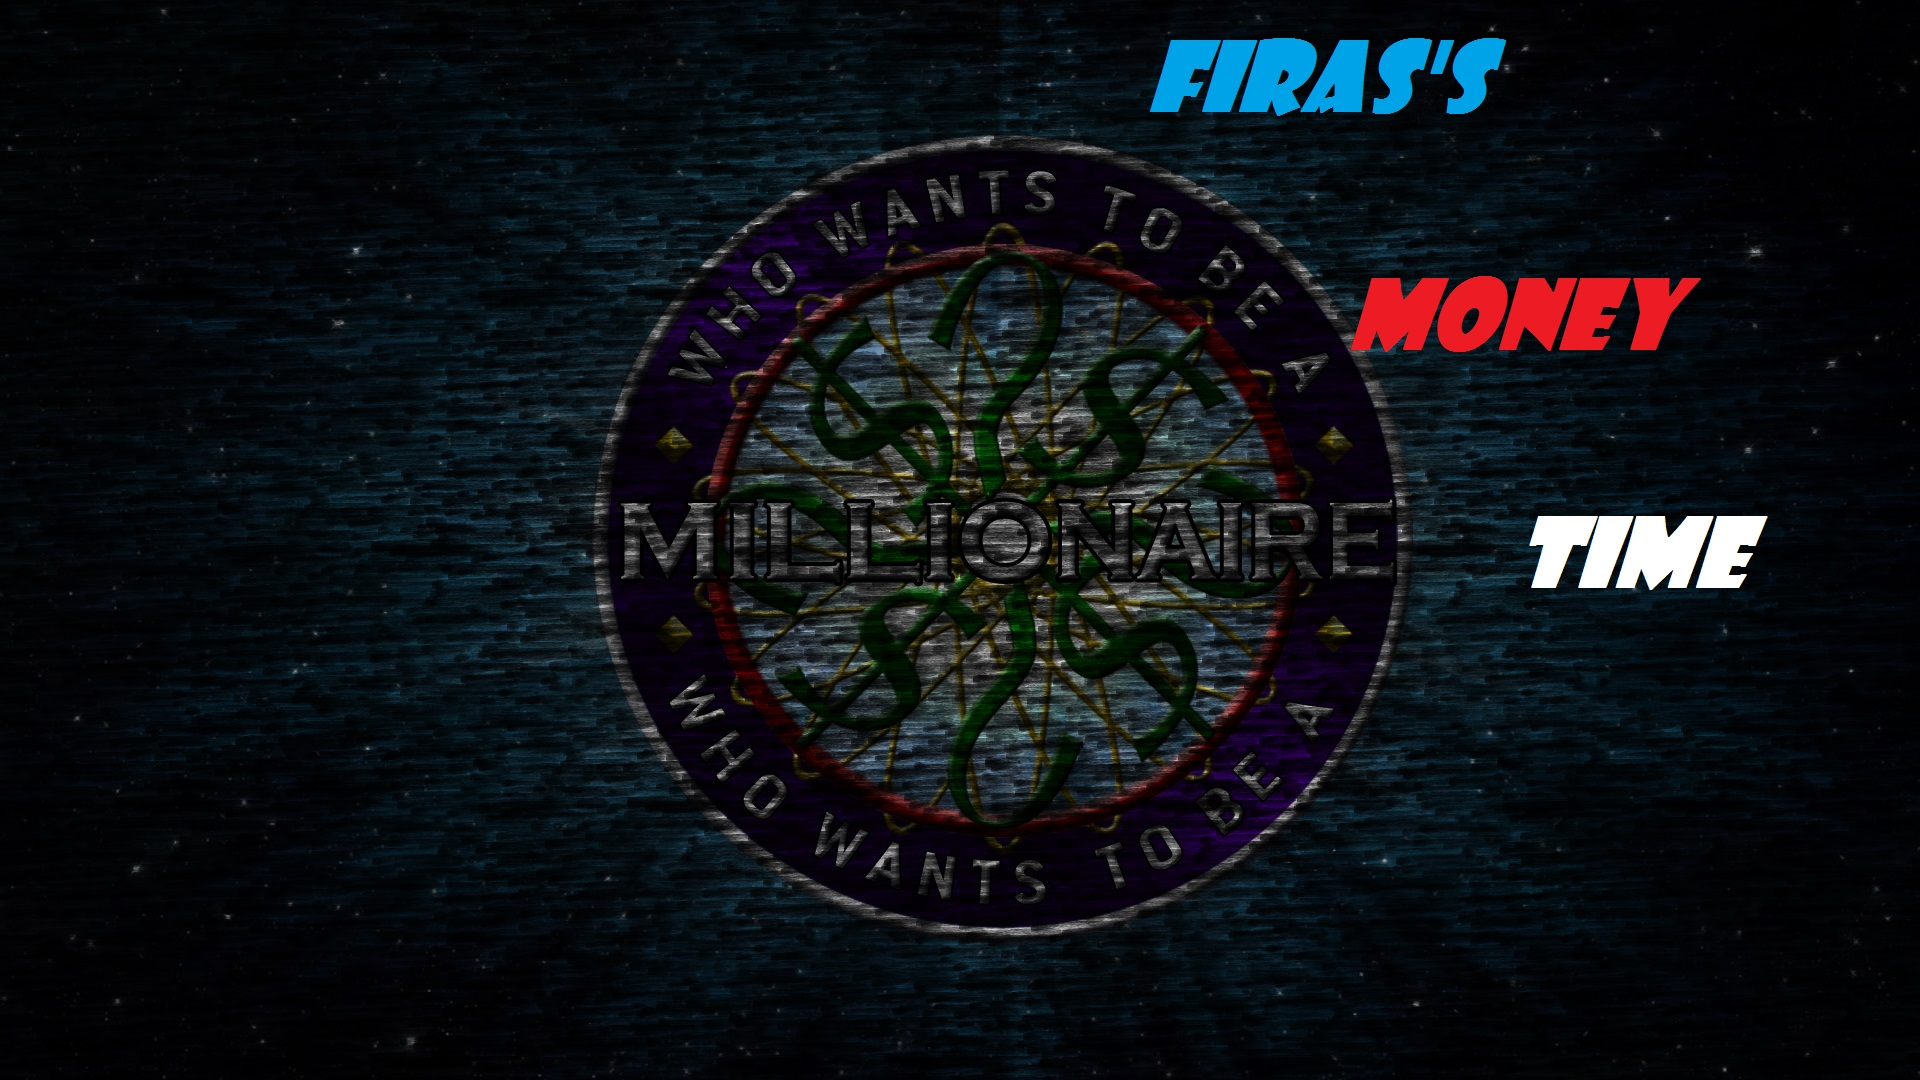
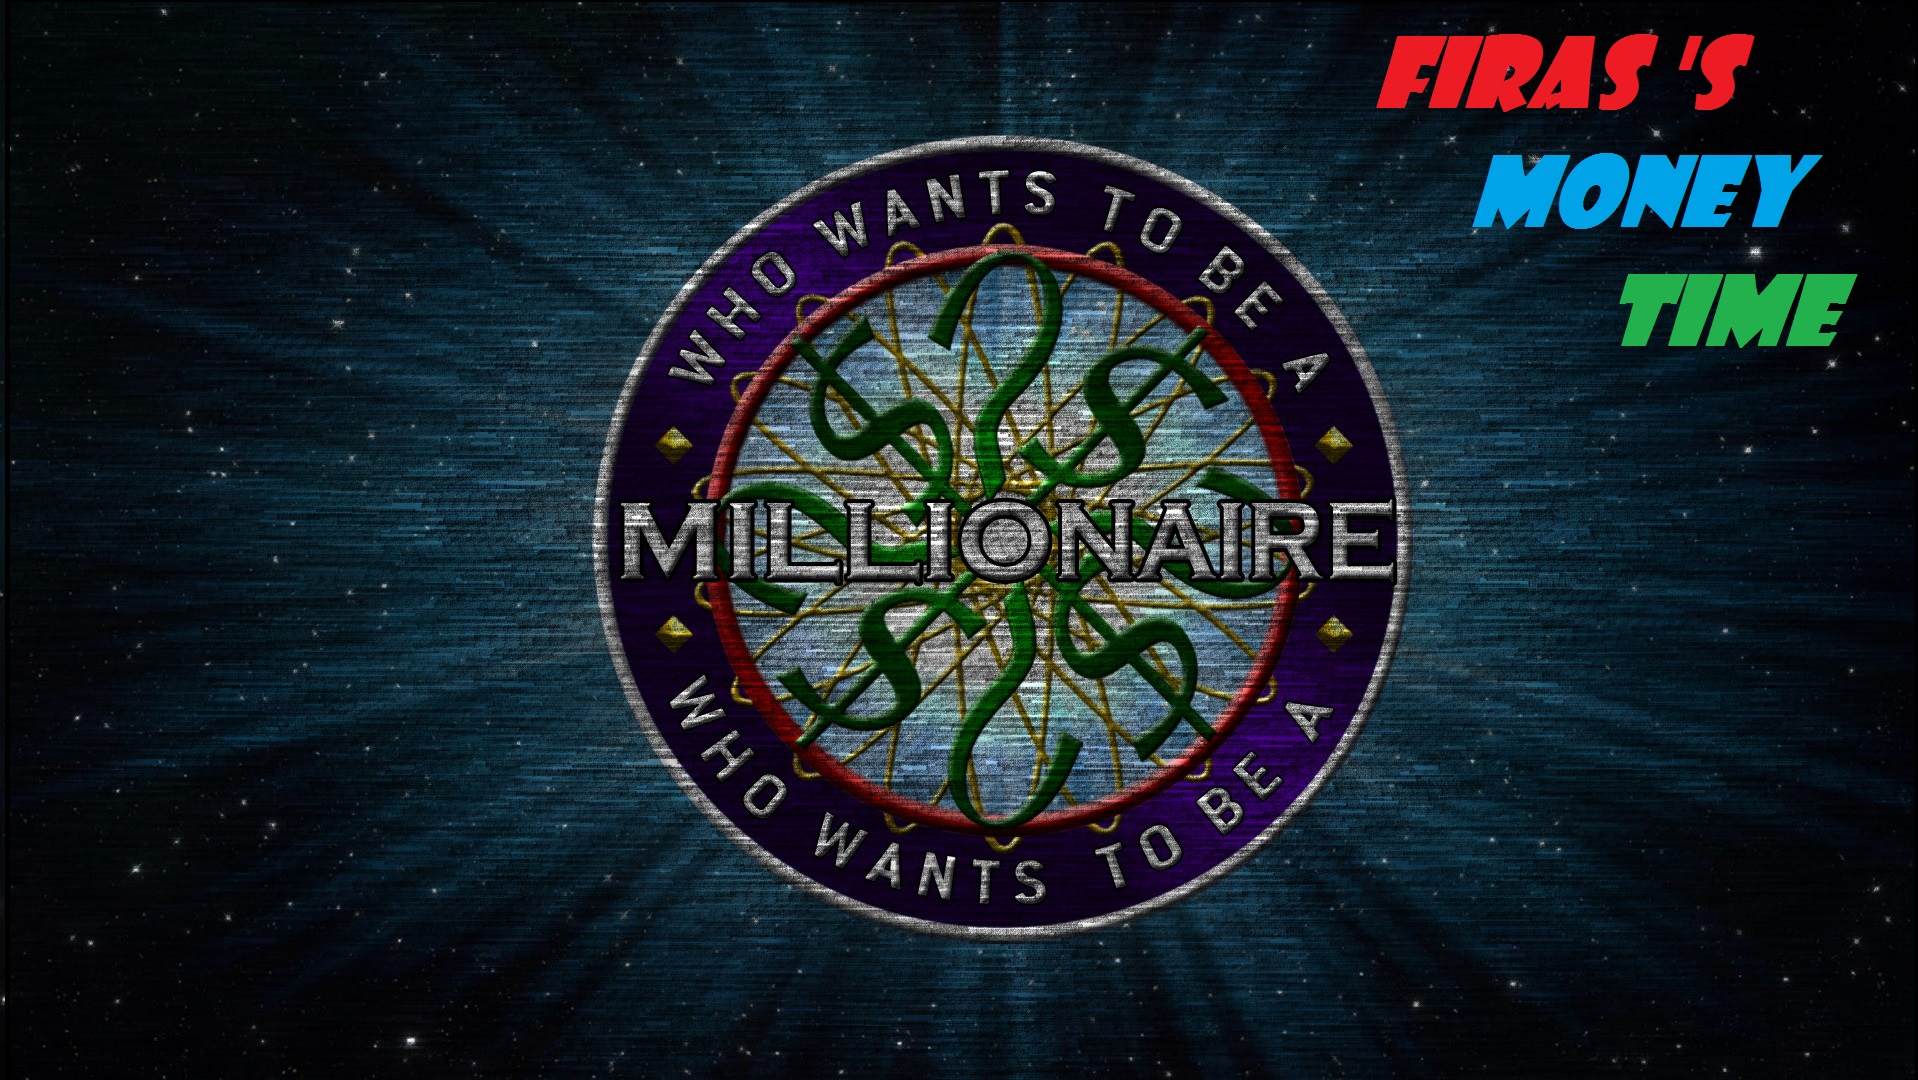
fixed an error with the onlineLink class fixed an error with the onlineLink class which didnt allow the data to be extracted correctly from the specified URL, also fixed a problem with the background color scheme done.

diff --git a/firasSMoneyTime/src/moneyTime/MTOnlineWindow.java b/firasSMoneyTime/src/moneyTime/MTOnlineWindow.java
@@ -160,25 +160,25 @@ public class MTOnlineWindow implements ActionListener
 			public void actionPerformed(ActionEvent arg0) 
 			{	
 				audio.cameraSound2();
-				if (answerButtonOne.getText().equals(MTMethods.correctAnswer))
+				if (answerButtonOne.getText().equals(MTOMethods.correctAnswer))
 				{
 					answerButtonTwo.setEnabled(false);
 					answerButtonFour.setEnabled(false);
 				}
 
-				else if (answerButtonTwo.getText().equals(MTMethods.correctAnswer))
+				else if (answerButtonTwo.getText().equals(MTOMethods.correctAnswer))
 				{
 					answerButtonThree.setEnabled(false);
 					answerButtonOne.setEnabled(false);
 				}
 
-				else if (answerButtonThree.getText().equals(MTMethods.correctAnswer))
+				else if (answerButtonThree.getText().equals(MTOMethods.correctAnswer))
 				{
 					answerButtonTwo.setEnabled(false);
 					answerButtonFour.setEnabled(false);
 				}
 
-				else if(answerButtonFour.getText().equals(MTMethods.correctAnswer))
+				else if(answerButtonFour.getText().equals(MTOMethods.correctAnswer))
 				{
 					answerButtonOne.setEnabled(false);
 					answerButtonTwo.setEnabled(false);

diff --git a/firasSMoneyTime/src/moneyTime/MTOnlineLink.java b/firasSMoneyTime/src/moneyTime/MTOnlineLink.java
@@ -17,9 +17,9 @@ public class MTOnlineLink {
 		/*UMData stands for unmodified Data, the unmodified data is the data which
 		  contains all the lines in the URL*/
 		ArrayList<String> UMData = new ArrayList<String>();
-		for(int i=0;i<1934;i++)
+		for(int i=0;i<1932;i++)
 		{
-			if(i<305)
+			if(i<315)
 			{
 				in.nextLine();
 			}
@@ -32,7 +32,7 @@ public class MTOnlineLink {
 		in.close();
 		
 		/*MQuestions stands for "modified questions", modified questions are the question
-		  that do not have the "#####" code in their start */
+		  that do not have the "#####" code in their start*/ 
 		ArrayList<String> MQuestions = new ArrayList<String>();
 		for(int i=0;i<=UMData.size();i+=10)
 		{
